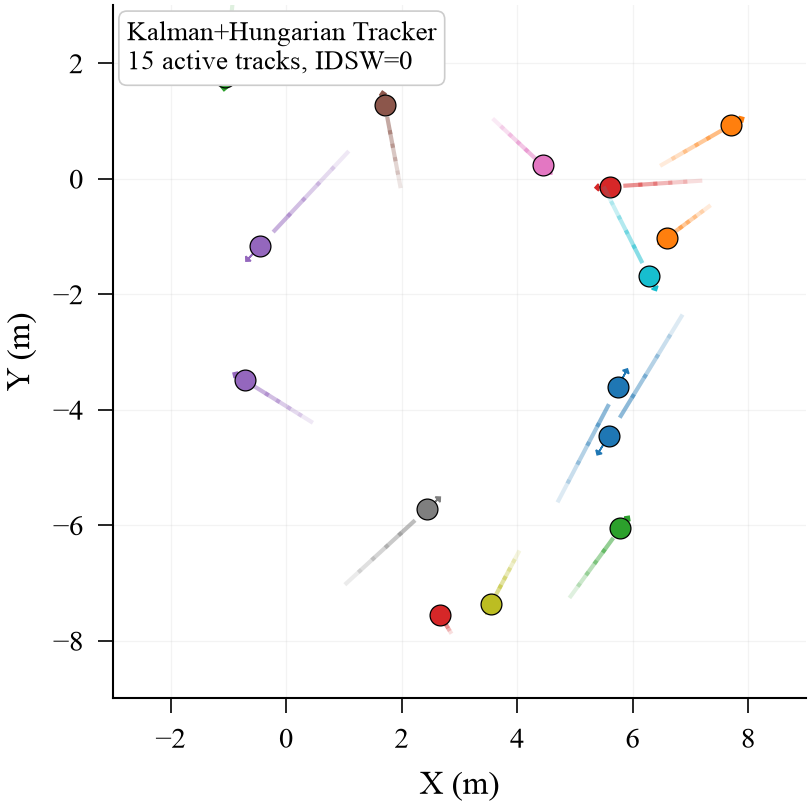
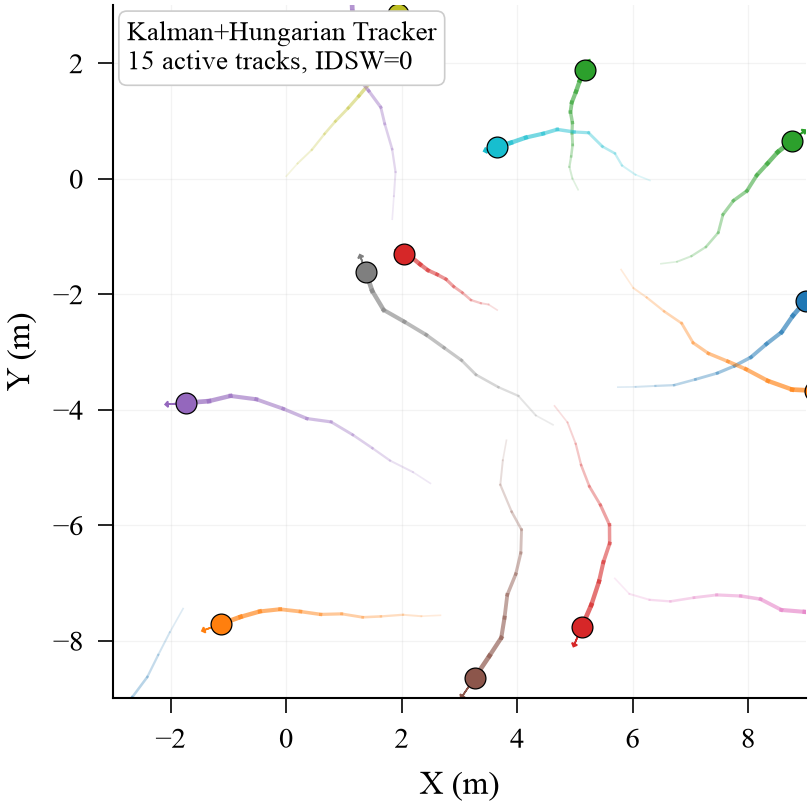
fix: use curved trajectories in tracking visualization

diff --git a/scripts/generate_paper_figures.py b/scripts/generate_paper_figures.py
@@ -386,7 +386,7 @@ def fig_bev_overlay():
 
 
 def fig_tracking_vis():
-    """Fig 9: Simulated BEV tracking visualization."""
+    """Fig 9: Simulated BEV tracking visualization with realistic curved trajectories."""
     rng = np.random.default_rng(42)
     fig, ax = plt.subplots(figsize=(COL_W, 3.0))
     ax.set_xlim(-3, 9)
@@ -397,21 +397,41 @@ def fig_tracking_vis():
     ax.grid(True, alpha=0.15, linewidth=0.3)
 
     n = 15
-    pos = rng.uniform(low=[-2, -8], high=[8, 2], size=(n, 2))
-    vel = rng.uniform(-0.7, 0.7, size=(n, 2))
     cmap = plt.cm.tab10
+    n_steps = 12
 
     for i in range(n):
-        trail = np.array([pos[i] - vel[i]*t*0.5 for t in range(6, 0, -1)])
-        alpha_vals = np.linspace(0.15, 0.6, 6)
-        for j in range(5):
-            ax.plot(trail[j:j+2, 0], trail[j:j+2, 1], "-", color=cmap(i%10),
-                    alpha=alpha_vals[j], linewidth=1.0)
-        ax.plot(pos[i, 0], pos[i, 1], "o", color=cmap(i%10), markersize=5,
-                markeredgecolor="black", markeredgewidth=0.3)
-        dx, dy = vel[i]*0.5, vel[i]*0.5
-        ax.arrow(pos[i, 0], pos[i, 1], vel[i, 0]*0.4, vel[i, 1]*0.4,
-                 head_width=0.12, head_length=0.06, fc=cmap(i%10), ec=cmap(i%10), linewidth=0.4)
+        start = rng.uniform(low=[-2, -8], high=[8, 2], size=2)
+        vel = rng.uniform(-0.5, 0.5, size=2)
+        # Generate smooth curved trajectory via correlated random walk
+        trajectory = np.zeros((n_steps, 2))
+        trajectory[0] = start
+        ang = np.arctan2(vel[1], vel[0])
+        speed = np.linalg.norm(vel) + 0.3
+
+        for t in range(1, n_steps):
+            ang += rng.normal(0, 0.25)  # gradual direction change
+            speed_t = speed * (1 + rng.normal(0, 0.1))  # speed variation
+            trajectory[t, 0] = trajectory[t-1, 0] + speed_t * np.cos(ang) * 0.5
+            trajectory[t, 1] = trajectory[t-1, 1] + speed_t * np.sin(ang) * 0.5
+
+        # Draw fading trail
+        for j in range(n_steps - 1):
+            alpha = 0.15 + 0.6 * (j / (n_steps - 1))
+            lw = 0.4 + 0.8 * (j / (n_steps - 1))
+            ax.plot(trajectory[j:j+2, 0], trajectory[j:j+2, 1], "-",
+                    color=cmap(i % 10), alpha=alpha, linewidth=lw)
+
+        # Current position (last point)
+        ax.plot(trajectory[-1, 0], trajectory[-1, 1], "o", color=cmap(i % 10),
+                markersize=5, markeredgecolor="black", markeredgewidth=0.3)
+
+        # Velocity arrow at current position
+        dx = trajectory[-1, 0] - trajectory[-2, 0]
+        dy = trajectory[-1, 1] - trajectory[-2, 1]
+        ax.arrow(trajectory[-1, 0], trajectory[-1, 1], dx*0.8, dy*0.8,
+                 head_width=0.1, head_length=0.05, fc=cmap(i % 10),
+                 ec=cmap(i % 10), linewidth=0.4)
 
     ax.text(0.02, 0.98, "Kalman+Hungarian Tracker\n15 active tracks, IDSW=0",
             transform=ax.transAxes, fontsize=6.5, va="top",
